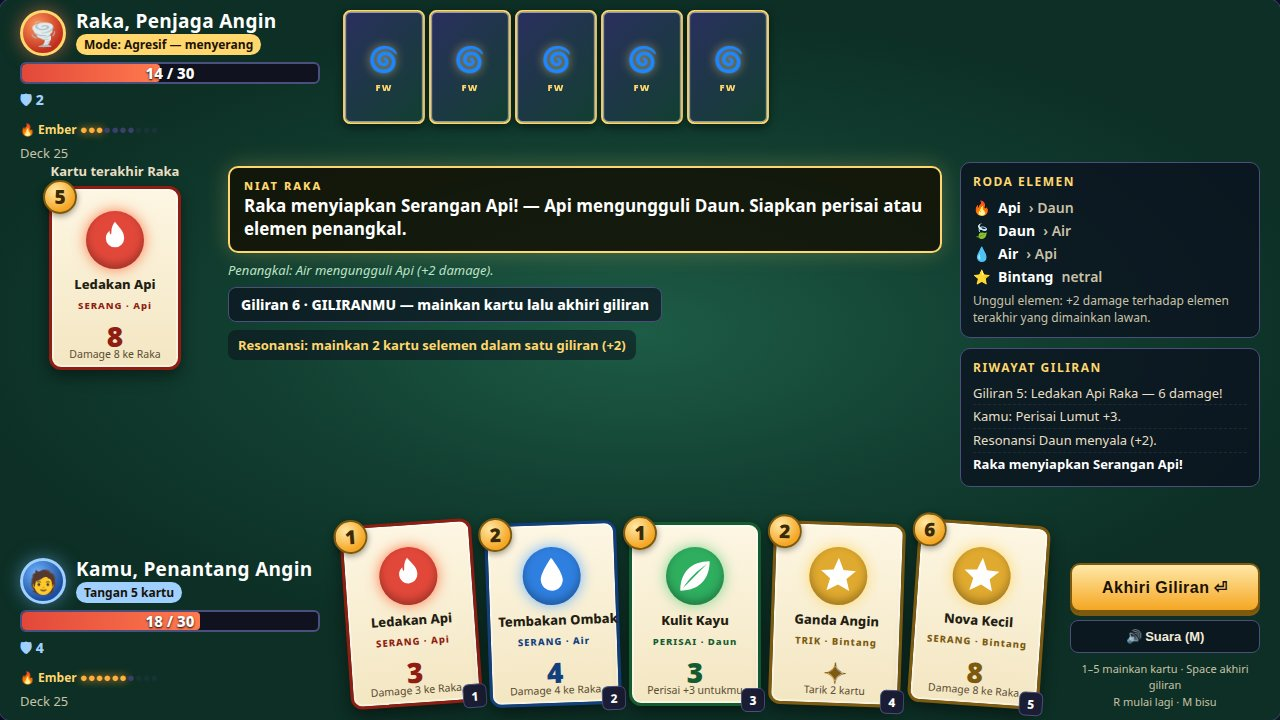
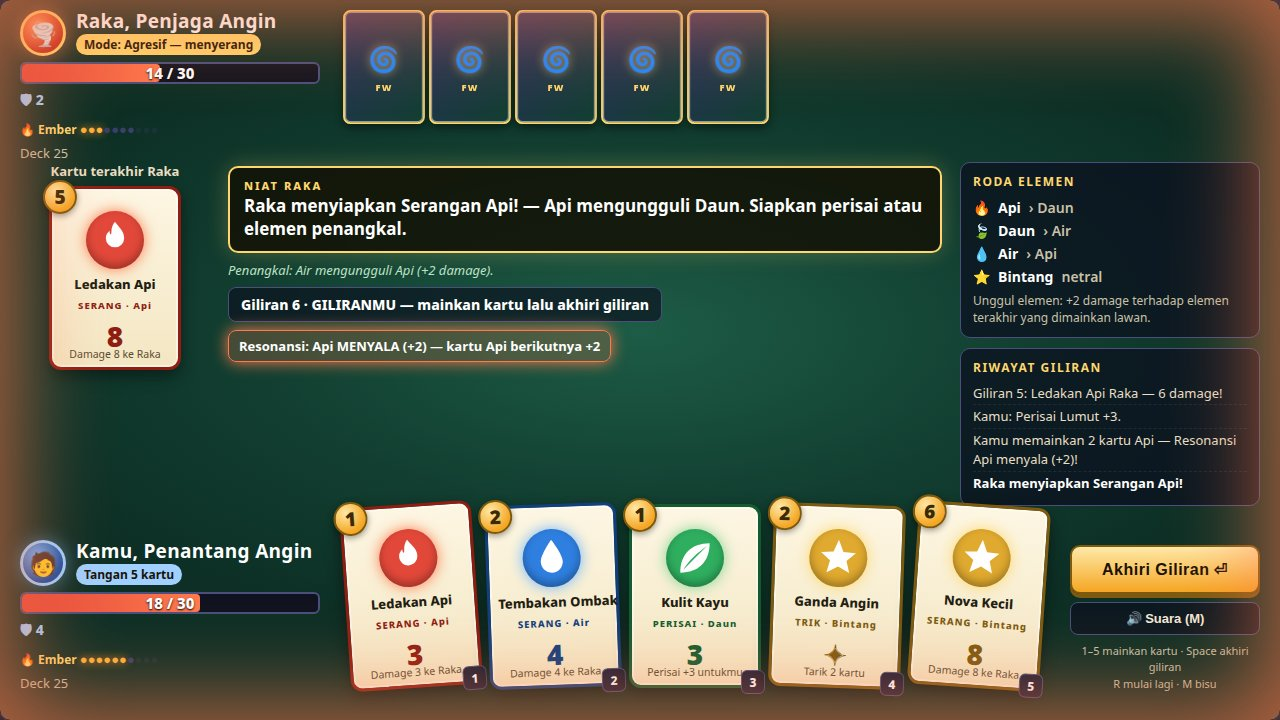
Revisi: cover resonansi aktif + tagline + perbaikan tangan terpotong
- Staging ?shot=play: playedThisTurn berisi 2 kartu Api, baris resonansi
  menampilkan 'Api MENYALA (+2)'; render menambah glow meja warna elemen
  yang persisten (class resonance-on + --res-glow) selama resonansi aktif.
- Title screen: tagline baru 'Baca niat Raka, rangkai resonansi,
  menangkan duel elemen!'
- Tangan pemain: padding bawah #player-zone 10px -> 28px supaya footer
  kartu dan badge angka tidak lagi mepet/tepotong tepi bawah 720px.
- Screenshot ulang 1-table.jpg (resonansi aktif) dan 2-title.jpg;
  3-win.jpg dan 4-loss.jpg tidak disentuh.

diff --git a/game/src/render.js b/game/src/render.js
@@ -79,6 +79,16 @@ function hpBarHtml(hp, maxHp) {
   return `<div class="hpbar${low}"><div class="hpfill" style="width:${pct}%"></div><span class="hptext">${hp} / ${maxHp}</span></div>`;
 }
 
+// Resonansi aktif: dua kartu terakhir giliran ini selemen. Mengembalikan id
+// elemennya, atau null bila belum menyala.
+function activeResonance(fighter) {
+  const t = fighter.playedThisTurn;
+  if (t.length < 2) return null;
+  const a = t[t.length - 1];
+  const b = t[t.length - 2];
+  return a.element === b.element ? a.element : null;
+}
+
 // ---- Render meja dari state ---------------------------------------------
 
 export function renderTable(state) {
@@ -128,12 +138,33 @@ export function renderTable(state) {
     .map((line) => `<li>${line}</li>`)
     .join('');
 
-  // Indikator Resonansi aktif + Ganda Angin.
-  $('resonance').textContent = p.doubleNext
-    ? '✦ GANDA ANGIN AKTIF — serangan berikut ×2'
-    : p.playedThisTurn.length > 0
-      ? `Resonansi: ${elementName(p.playedThisTurn[p.playedThisTurn.length - 1].element)} — kartu selemen +2`
-      : 'Resonansi: mainkan 2 kartu selemen dalam satu giliran (+2)';
+  // Indikator Resonansi aktif + Ganda Angin. Saat dua kartu selemen sudah
+  // dimainkan giliran ini, baris menampilkan status MENYALA dan seluruh
+  // meja glow warna elemen itu selama resonansi aktif.
+  const resRow = $('resonance');
+  const resEl = activeResonance(p);
+  const stage = document.getElementById('stage');
+  if (p.doubleNext) {
+    resRow.textContent = '✦ GANDA ANGIN AKTIF — serangan berikut ×2';
+    resRow.classList.remove('active');
+    stage.classList.remove('resonance-on');
+  } else if (resEl) {
+    resRow.textContent =
+      `Resonansi: ${elementName(resEl)} MENYALA (+2) — kartu ${elementName(resEl)} berikutnya +2`;
+    resRow.classList.add('active');
+    stage.classList.add('resonance-on');
+    stage.style.setProperty('--res-glow', ELEMENTS[resEl].glow);
+    stage.style.setProperty('--res-color', ELEMENTS[resEl].color);
+  } else if (p.playedThisTurn.length > 0) {
+    resRow.textContent =
+      `Resonansi: ${elementName(p.playedThisTurn[p.playedThisTurn.length - 1].element)} — kartu selemen +2`;
+    resRow.classList.remove('active');
+    stage.classList.remove('resonance-on');
+  } else {
+    resRow.textContent = 'Resonansi: mainkan 2 kartu selemen dalam satu giliran (+2)';
+    resRow.classList.remove('active');
+    stage.classList.remove('resonance-on');
+  }
 }
 
 // ---- Banner niat Raka ----------------------------------------------------

diff --git a/game/style.css b/game/style.css
@@ -38,6 +38,19 @@ html, body {
 }
 
 #stage.shake { animation: shake 0.35s ease-in-out; }
+
+/* Glow meja saat Resonansi aktif: seluruh meja disinari warna elemen,
+   persisten selama resonansi menyala (bukan kilat sesaat). */
+#stage.resonance-on {
+  box-shadow: 0 0 0 1px #3a3f6b, 0 24px 80px rgba(0, 0, 0, 0.6),
+    0 0 70px 8px var(--res-glow, #ff7a4d);
+}
+#stage.resonance-on::before {
+  content: ""; position: absolute; inset: 0; z-index: 1; pointer-events: none;
+  border-radius: 10px;
+  box-shadow: inset 0 0 90px 16px var(--res-glow, #ff7a4d);
+  opacity: 0.7;
+}
 @keyframes shake {
   0%, 100% { transform: translate(0, 0); }
   20% { transform: translate(-7px, 3px); }
@@ -52,7 +65,10 @@ html, body {
 
 .zone { position: absolute; left: 0; right: 0; display: flex; align-items: flex-start; gap: 16px; padding: 10px 20px; }
 #foe-zone { top: 0; }
-#player-zone { bottom: 0; align-items: flex-end; }
+/* Padding bawah besar: kartu tangan 184px + badge kunci yang menjorok 9px
+   ke bawah + sudut kartu yang miring harus berakhir jauh dari tepi 720px,
+   supaya footer kartu ("Damage X ke Raka") tidak terbaca terpotong. */
+#player-zone { bottom: 0; align-items: flex-end; padding-bottom: 28px; }
 
 .fighter { display: flex; flex-direction: column; gap: 6px; width: 300px; }
 .fighter .name-row { display: flex; align-items: center; gap: 10px; }
@@ -135,6 +151,12 @@ html, body {
   font-size: 13px; font-weight: 700; color: #ffd76d;
   background: rgba(11, 14, 30, 0.55); border-radius: 8px; padding: 6px 10px;
   align-self: flex-start;
+}
+#resonance.active {
+  color: #fff;
+  background: rgba(255, 122, 77, 0.22);
+  border: 1px solid var(--res-glow, #ffd76d);
+  box-shadow: 0 0 16px var(--res-glow, #ffd76d);
 }
 
 /* Log + legenda roda elemen di kanan tengah. */

diff --git a/game/src/main.js b/game/src/main.js
@@ -250,6 +250,13 @@ function stageShot(shot) {
       byKey['bintang:serang:'],
     ].filter(Boolean);
     state.player.hand = wanted.length === 5 ? wanted : hand;
+    // Resonansi AKTIF di frame ini: dua kartu Api sudah dimainkan giliran
+    // ini (diambil dari deck, bukan dari tangan yang terlihat).
+    const handUids = new Set(state.player.hand.map((c) => c.uid));
+    const apiPlayed = state.player.deck
+      .filter((c) => c.element === 'api' && !handUids.has(c.uid))
+      .slice(0, 2);
+    if (apiPlayed.length === 2) state.player.playedThisTurn = apiPlayed;
     // Kartu terakhir Raka: serangan Api yang besar.
     const bigApi = state.foe.deck.find((c) => c.kind === 'serang' && c.element === 'api' && c.value >= 6)
       ?? state.foe.hand.find((c) => c.kind === 'serang');
@@ -259,7 +266,7 @@ function stageShot(shot) {
     state.log = [
       'Giliran 5: Ledakan Api Raka — 6 damage!',
       'Kamu: Perisai Lumut +3.',
-      'Resonansi Daun menyala (+2).',
+      'Kamu memainkan 2 kartu Api — Resonansi Api menyala (+2)!',
       'Raka menyiapkan Serangan Api!',
     ];
     showIntent(

diff --git a/game/index.html b/game/index.html
@@ -86,7 +86,7 @@
     <!-- Layar judul -->
     <div class="screen" id="screen-title">
       <div class="game-logo">FOUR<br><span class="wind">WINDS</span> DUEL</div>
-      <div class="game-tagline">Duel Empat Angin — kartu, ember, dan satu Penjaga Angin yang bisa dibaca niatnya.</div>
+      <div class="game-tagline">Baca niat Raka, rangkai resonansi, menangkan duel elemen!</div>
       <div class="wind-row">
         <div class="wind-chip"><span class="chip-icon" style="background:#e2483a">🔥</span>Api</div>
         <div class="wind-chip"><span class="chip-icon" style="background:#2f7fe0">💧</span>Air</div>
